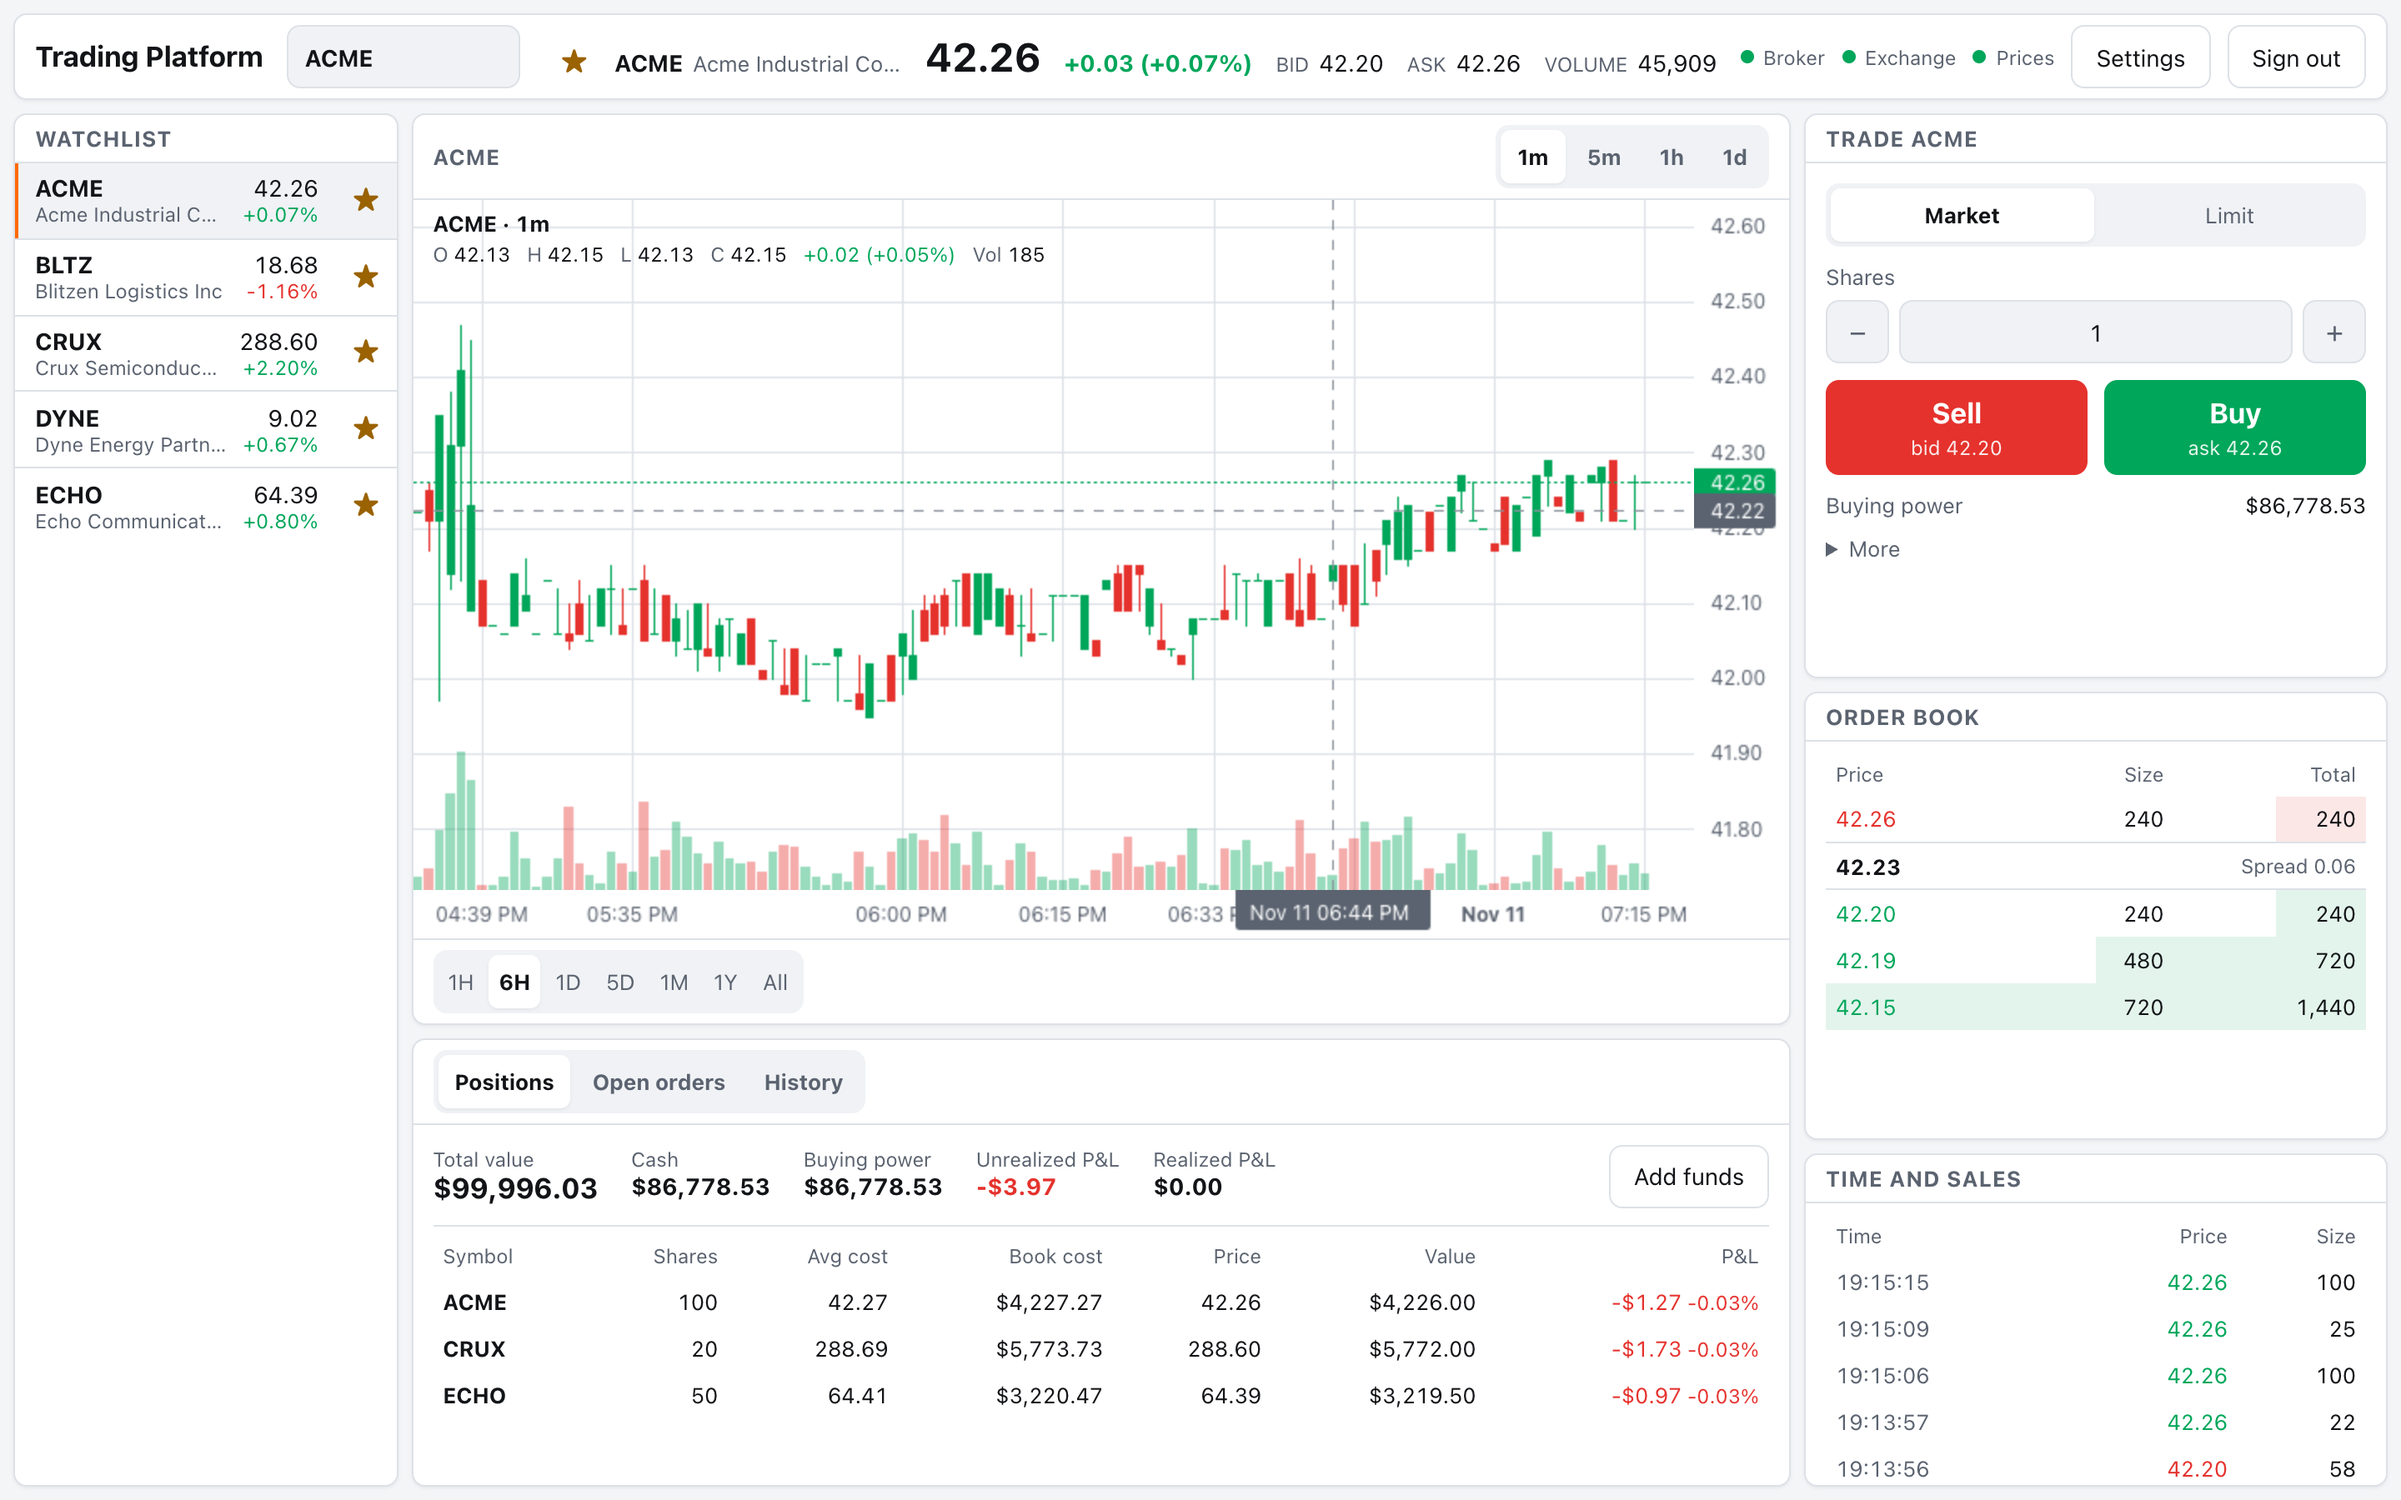
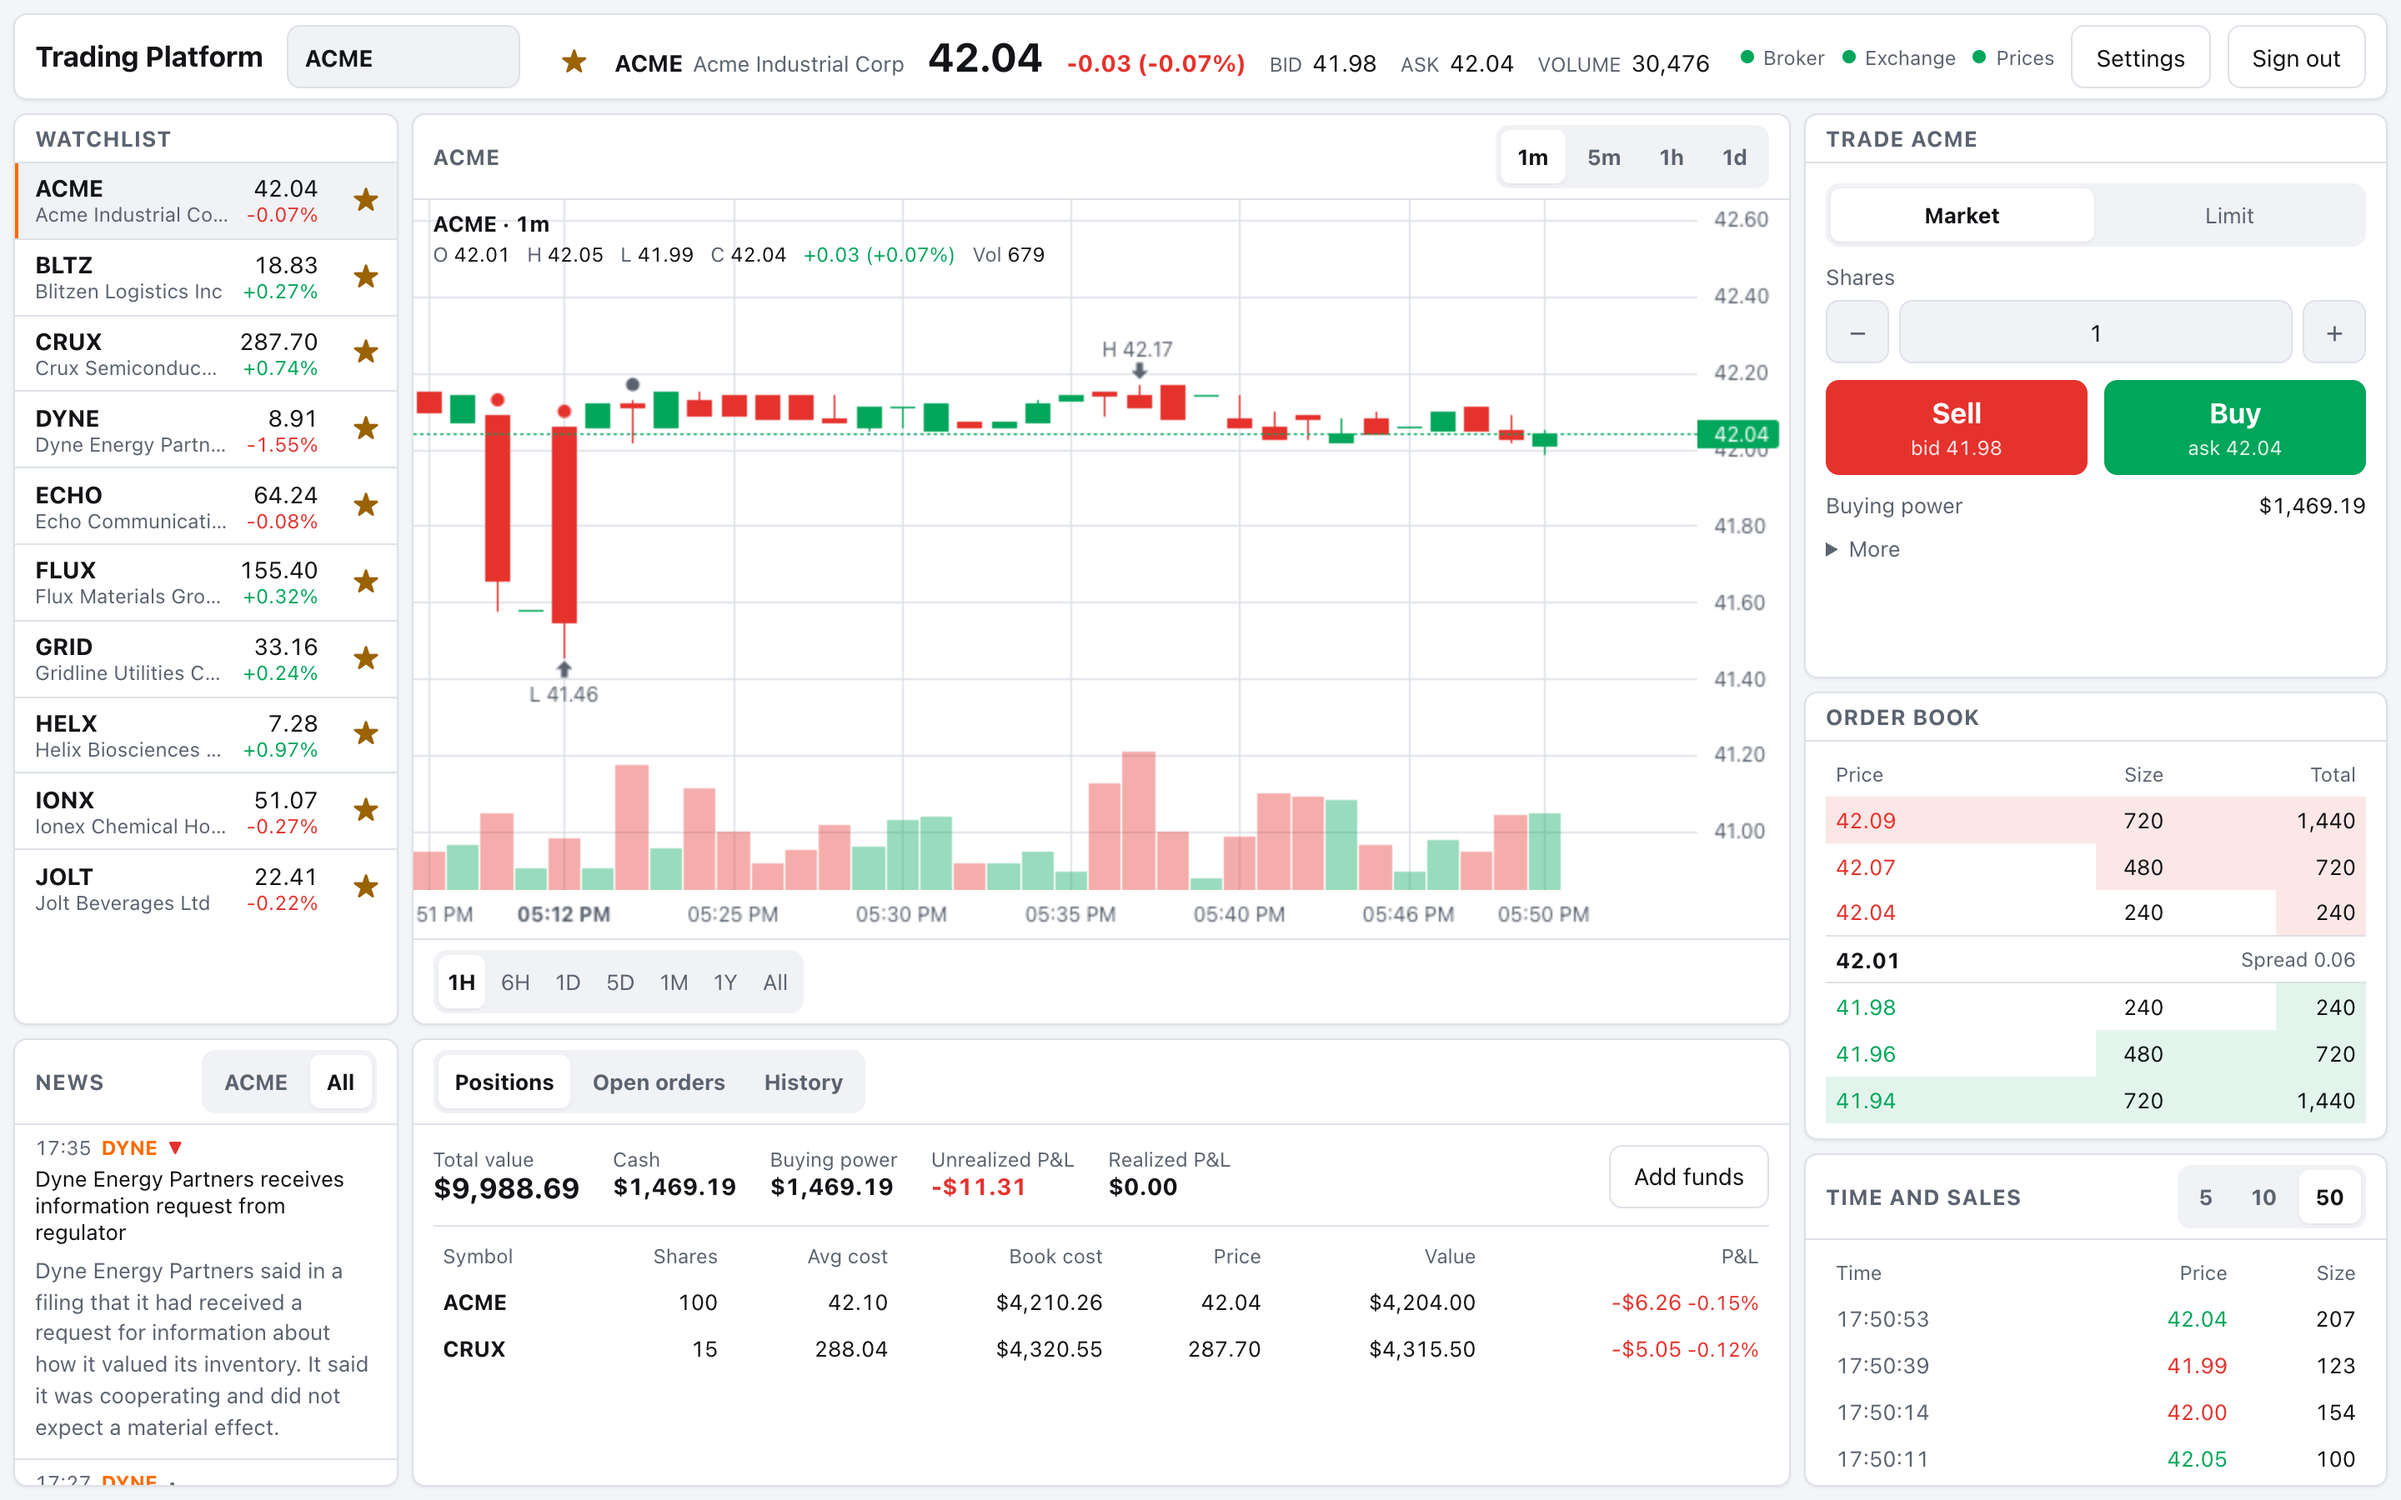
README: new screenshots of every style and the trading screen
They now show news (the panel with a story open, dots on the chart), the
chart's high and low, and positions. Terminal's is full resolution like the
others.

diff --git a/README.md b/README.md
@@ -12,7 +12,7 @@
 
 Entirely synthetic: no real market data, no real money.
 
-![The trading screen in the Active style: watchlist, live candlestick chart with a hover legend, quick Buy and Sell buttons, order book, positions with book cost and P&L, and time and sales](docs/images/trading-screen-active-dark.png)
+![The trading screen in the Active style: watchlist, news with a story open, live candlestick chart with news dots and the high and low marked, quick Buy and Sell buttons, order book, positions with book cost and P&L, and time and sales](docs/images/trading-screen-active-dark.png)
 
 ## What it is
 
